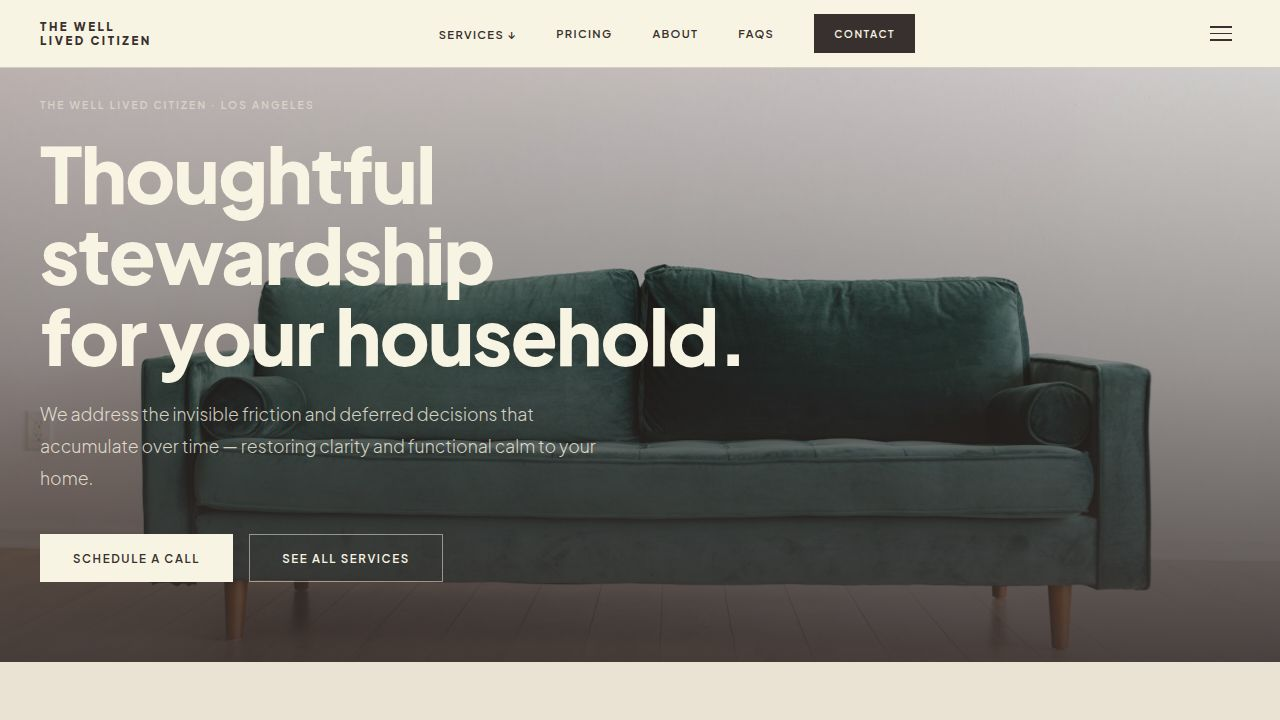
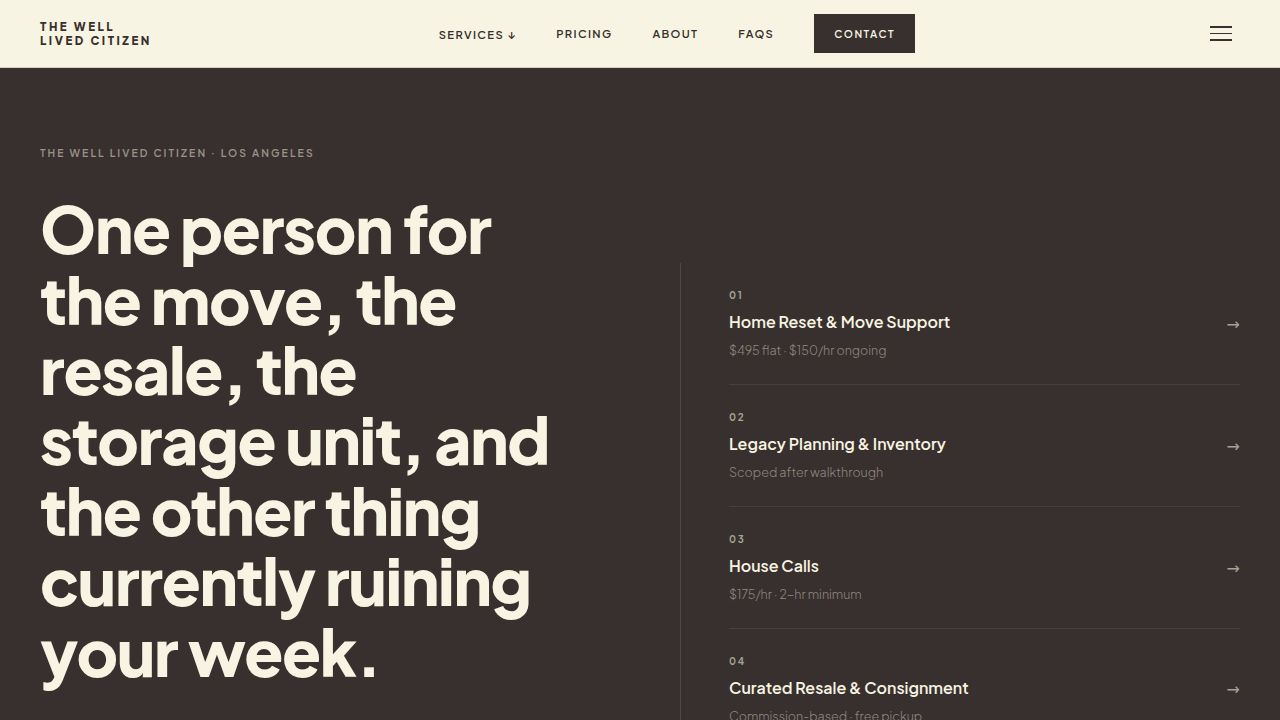
feat: wire contact form to send email via Resend API
## Task
Replace the mailto: contact form with a real server-side POST that delivers
every inquiry to [email redacted] regardless of device/browser.

## What was done

### API server (artifacts/api-server)
- Installed `resend` npm package
- Created `src/routes/contact.ts`: POST /api/contact endpoint that:
  - Validates name + email are present (400 if missing)
  - Sends a formatted HTML email via Resend
  - from: [email redacted] (requires domain verified in Resend)
  - to: [email redacted]
  - replyTo: submitter's email for easy one-click replies
  - Subject: "New Inquiry — [service]" matching buildSummary() format
  - Returns { ok: true } on success or { ok: false, error: "..." } on failure
  - Logs errors server-side
- Wired contact route into `src/routes/index.ts`

### Frontend (artifacts/wlc-site)
- Replaced synchronous mailto: handleSubmit with async fetch POST to /api/contact
- URL: `${import.meta.env.BASE_URL.replace(/\/$/, "")}/api/contact`
  (platform path-based router forwards /api/* to API server on port 8080 —
  no Vite proxy needed)
- Added submitting + submitError state; form data preserved on error
- Submit button disabled and shows "Sending…" while in flight
- Inline red error message shown above button on failure
- Success copy updated: removed "Your email app should have opened" fallback
- Success state now reads: "Got it — I'll be in touch within 24 hours."

## Notes
- RESEND_API_KEY stored as a Replit secret
[…]

diff --git a/artifacts/api-server/src/routes/contact.ts b/artifacts/api-server/src/routes/contact.ts
@@ -1,0 +1,58 @@
+import { Router, type IRouter, type Request, type Response } from "express";
+import { Resend } from "resend";
+
+const router: IRouter = Router();
+const resend = new Resend(process.env.RESEND_API_KEY);
+
+router.post("/contact", async (req: Request, res: Response) => {
+  const { name, email, phone, neighborhood, clientType, summary, situation } = req.body as {
+    name?: string;
+    email?: string;
+    phone?: string;
+    neighborhood?: string;
+    clientType?: string;
+    summary?: string;
+    situation?: string;
+  };
+
+  if (!name || !email) {
+    res.status(400).json({ ok: false, error: "Name and email are required." });
+    return;
+  }
+
+  const subject = `New Inquiry — ${summary || "General"}`;
+  const htmlBody = `
+    <table style="font-family: sans-serif; font-size: 15px; color: #222; border-collapse: collapse; width: 100%; max-width: 560px;">
+      <tr><td style="padding: 8px 0; border-bottom: 1px solid #eee;"><strong>Name</strong></td><td style="padding: 8px 0; border-bottom: 1px solid #eee;">${name}</td></tr>
+      <tr><td style="padding: 8px 0; border-bottom: 1px solid #eee;"><strong>Email</strong></td><td style="padding: 8px 0; border-bottom: 1px solid #eee;">${email}</td></tr>
+      <tr><td style="padding: 8px 0; border-bottom: 1px solid #eee;"><strong>Phone</strong></td><td style="padding: 8px 0; border-bottom: 1px solid #eee;">${phone || "—"}</td></tr>
+      <tr><td style="padding: 8px 0; border-bottom: 1px solid #eee;"><strong>Neighborhood</strong></td><td style="padding: 8px 0; border-bottom: 1px solid #eee;">${neighborhood || "—"}</td></tr>
+      <tr><td style="padding: 8px 0; border-bottom: 1px solid #eee;"><strong>Client type</strong></td><td style="padding: 8px 0; border-bottom: 1px solid #eee;">${clientType === "returning" ? "Returning" : "New"}</td></tr>
+      <tr><td style="padding: 8px 0; border-bottom: 1px solid #eee;"><strong>Interest</strong></td><td style="padding: 8px 0; border-bottom: 1px solid #eee;">${summary || "—"}</td></tr>
+      <tr><td style="padding: 8px 12px 8px 0; vertical-align: top;"><strong>Situation</strong></td><td style="padding: 8px 0; white-space: pre-wrap;">${situation || "—"}</td></tr>
+    </table>
+  `;
+
+  try {
+    const { error } = await resend.emails.send({
+      from: "Dayna at The Well Lived Citizen <[email redacted]>",
+      to: "[email redacted]",
+      replyTo: email,
+      subject,
+      html: htmlBody,
+    });
+
+    if (error) {
+      console.error("Resend error:", error);
+      res.status(500).json({ ok: false, error: "Failed to send message. Please try again." });
+      return;
+    }
+
+    res.json({ ok: true });
+  } catch (err) {
+    console.error("Contact route error:", err);
+    res.status(500).json({ ok: false, error: "Failed to send message. Please try again." });
+  }
+});
+
+export default router;

diff --git a/artifacts/wlc-site/src/pages/Contact.tsx b/artifacts/wlc-site/src/pages/Contact.tsx
@@ -86,6 +86,8 @@ export default function Contact() {
   const [serviceChoice, setServiceChoice] = useState<ServiceChoice>("");
   const [returningNeed, setReturningNeed] = useState<ReturningNeed>("");
   const [submitted, setSubmitted] = useState(false);
+  const [submitting, setSubmitting] = useState(false);
+  const [submitError, setSubmitError] = useState("");
   const [form, setForm] = useState({ name: "", email: "", phone: "", neighborhood: "", situation: "" });
 
   function pick<T>(setter: (v: T) => void, val: T, next: 0 | 1 | 2 | 3) {
@@ -131,15 +133,37 @@ export default function Contact() {
     return "What's going on? What do you need help with?";
   }
 
-  function handleSubmit(e: React.FormEvent) {
+  async function handleSubmit(e: React.FormEvent) {
     e.preventDefault();
+    setSubmitting(true);
+    setSubmitError("");
     const summary = buildSummary();
-    const subject = encodeURIComponent(`New Inquiry — ${summary || "General"}`);
-    const body = encodeURIComponent(
-      `Name: ${form.name}\nEmail: ${form.email}\nPhone: ${form.phone}\nNeighborhood: ${form.neighborhood}\n\nClient type: ${clientType === "returning" ? "Returning" : "New"}\nInterest: ${summary}\n\nSituation:\n${form.situation}`
-    );
-    window.location.href = `mailto:[email redacted]?subject=${subject}&body=${body}`;
-    setSubmitted(true);
+    try {
+      const base = import.meta.env.BASE_URL.replace(/\/$/, "");
+      const res = await fetch(`${base}/api/contact`, {
+        method: "POST",
+        headers: { "Content-Type": "application/json" },
+        body: JSON.stringify({
+          name: form.name,
+          email: form.email,
+          phone: form.phone,
+          neighborhood: form.neighborhood,
+          clientType,
+          summary: summary || "General",
+          situation: form.situation,
+        }),
+      });
+      const data = await res.json() as { ok: boolean; error?: string };
+      if (!res.ok || !data.ok) {
+        setSubmitError(data.error ?? "Something went wrong. Please try again.");
+      } else {
+        setSubmitted(true);
+      }
+    } catch {
+      setSubmitError("Unable to send. Please check your connection and try again.");
+    } finally {
+      setSubmitting(false);
+    }
   }
 
   const progressPct = step === 0 ? 10 : step === 1 ? 40 : step === 2 ? 75 : 100;
@@ -192,11 +216,8 @@ export default function Contact() {
               <span className="eyebrow eyebrow-sage">Message Sent</span>
               <h2 className="display-md" style={{ color: "var(--ink)", marginBottom: "1.5rem" }}>Thank you — I'll be in touch.</h2>
               <p style={{ fontSize: "1rem", fontWeight: 300, color: "var(--ink-soft)", lineHeight: 1.8, marginBottom: "1rem" }}>
-                Your email app should have opened with the message ready to send. If it didn't, reach me directly at{" "}
-                <a href="mailto:[email redacted]" style={{ color: "var(--ink)", fontWeight: 500 }}>[email redacted]</a>{" "}
-                or call <a href="tel:[phone redacted]" style={{ color: "var(--ink)", fontWeight: 500 }}>[phone redacted]</a>.
+                Got it — I'll be in touch within 24 hours.
               </p>
-              <p style={{ fontSize: "0.9rem", fontWeight: 300, color: "var(--sage-dark)" }}>I'll be in touch within 24 hours.</p>
             </div>
           </div>
         </section>
@@ -387,12 +408,14 @@ export default function Contact() {
                             onBlur={e => (e.target as HTMLInputElement).style.borderColor = "var(--warm-gray-lt)"} />
                         </div>
                       </div>
-                      <button type="submit" className="btn btn-ink" style={{ width: "100%", justifyContent: "center", padding: "1rem" }}>
-                        Send Message
+                      {submitError && (
+                        <p style={{ fontSize: "0.85rem", color: "#b94a48", marginBottom: "1rem", lineHeight: 1.5 }}>
+                          {submitError}
+                        </p>
+                      )}
+                      <button type="submit" disabled={submitting} className="btn btn-ink" style={{ width: "100%", justifyContent: "center", padding: "1rem", opacity: submitting ? 0.65 : 1, cursor: submitting ? "not-allowed" : "pointer" }}>
+                        {submitting ? "Sending…" : "Send Message"}
                       </button>
-                      <p style={{ fontSize: "0.75rem", color: "var(--sage-dark)", marginTop: "0.75rem", lineHeight: 1.6 }}>
-                        This opens your email app with your message ready to send. Or call directly: [phone redacted].
-                      </p>
                     </form>
                   )}
 

diff --git a/artifacts/api-server/src/routes/index.ts b/artifacts/api-server/src/routes/index.ts
@@ -1,8 +1,10 @@
 import { Router, type IRouter } from "express";
 import healthRouter from "./health";
+import contactRouter from "./contact";
 
 const router: IRouter = Router();
 
 router.use(healthRouter);
+router.use(contactRouter);
 
 export default router;